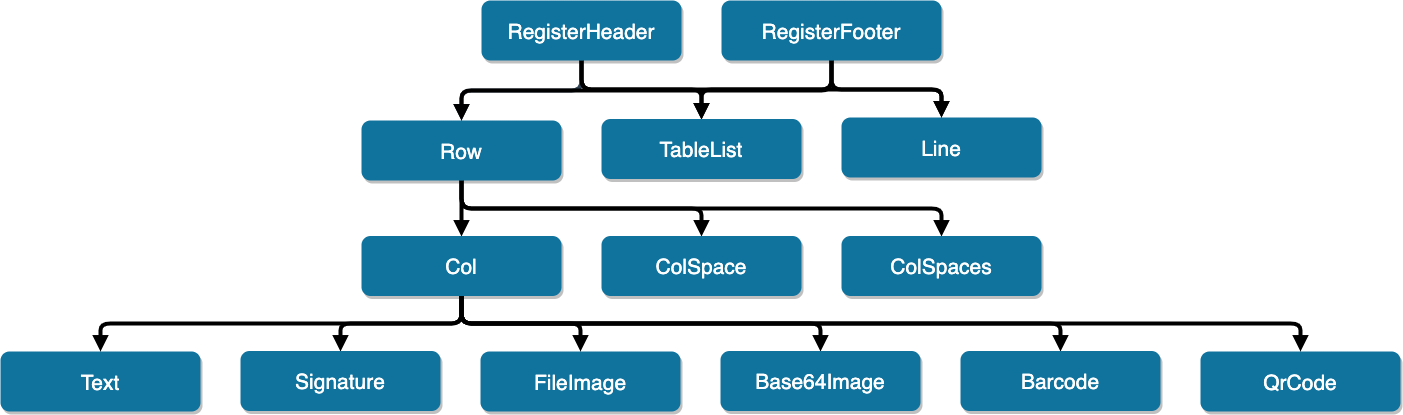
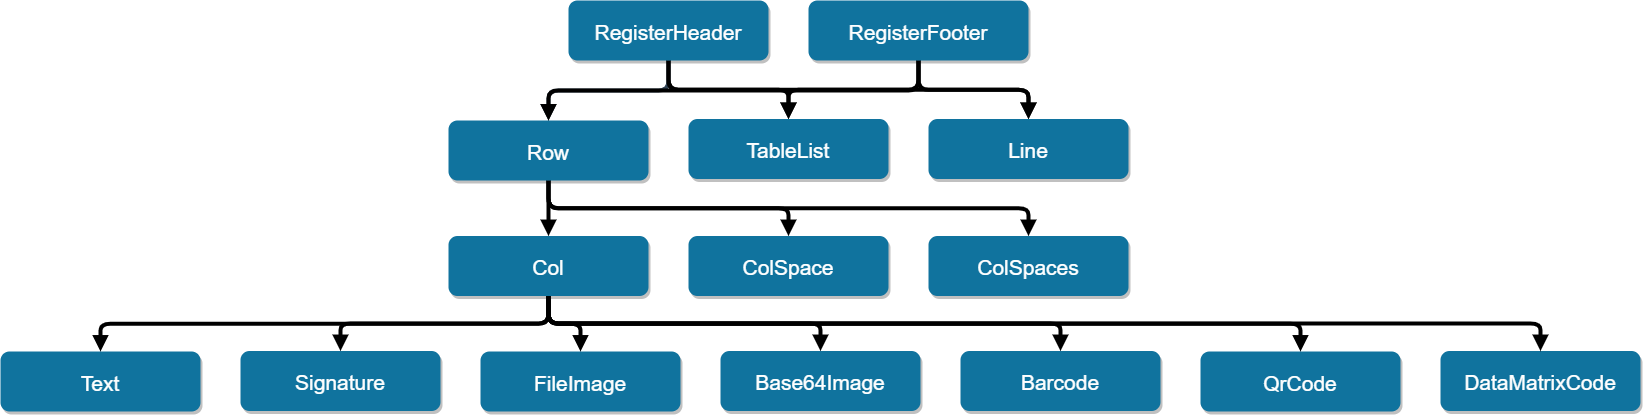
Update docs

diff --git a/pkg/pdf/example_test.go b/pkg/pdf/example_test.go
@@ -48,8 +48,18 @@ func ExamplePdfMaroto_Row() {
 	m := pdf.NewMaroto(consts.Portrait, consts.A4)
 	rowHeight := 5.0
 
+	// Warning: There is no way to use a row inside a row or a row inside a col.
 	m.Row(rowHeight, func() {
-		// ... Add some columns
+		m.Col(12, func() {
+			// Add a component
+		})
+	})
+
+	// Warning: There is no way to use a row inside a row or a row inside a col.
+	m.Row(rowHeight, func() {
+		m.Col(12, func() {
+			// Add another component
+		})
 	})
 
 	// Do more things and save...
@@ -62,6 +72,7 @@ func ExamplePdfMaroto_Col() {
 	rowHeight := 5.0
 
 	// Warning: The sum of all column gridSize cannot extrapolate 12
+	// Warning: There is no way to use a row inside a row or a row inside a col.
 	m.Row(rowHeight, func() {
 		m.Col(12, func() {
 			// Add Image, Text, Signature, QrCode or Barcode...
@@ -69,6 +80,7 @@ func ExamplePdfMaroto_Col() {
 	})
 
 	// Warning: The sum of all column gridSize cannot extrapolate 12
+	// Warning: There is no way to use a row inside a row or a row inside a col.
 	m.Row(rowHeight, func() {
 		m.Col(6, func() {
 			// Add Image, Text, Signature, QrCode or Barcode...
@@ -205,6 +217,13 @@ func ExamplePdfMaroto_TableList() {
 		},
 		HeaderContentSpace: 10.0,
 		Line:               false,
+	})
+
+	// TableList have to be used at same level as row
+	m.Row(10, func() {
+		m.Col(12, func() {
+			// Add a component
+		})
 	})
 
 	// Do more things and save...

diff --git a/pkg/pdf/pdf.go b/pkg/pdf/pdf.go
@@ -253,7 +253,9 @@ func (s *PdfMaroto) Signature(label string, prop ...props.Font) {
 	s.SignHelper.AddSpaceFor(label, cell, signProp.ToTextProp(consts.Center, 0.0, false, 0))
 }
 
-// TableList create a table with multiple rows and columns.
+// TableList create a table with multiple rows and columns,
+// so is not possible use this component inside a row or
+// inside a column.
 // Headers define the amount of columns from each row.
 // Headers have bold style, and localized at the top of table.
 // Contents are array of arrays. Each array is one line.
@@ -316,6 +318,7 @@ func (s *PdfMaroto) Line(spaceHeight float64) {
 }
 
 // Row define a row and enable add columns inside the row.
+// Maroto do not support recursive rows or rows inside columns.
 func (s *PdfMaroto) Row(height float64, closure func()) {
 	// Used to calculate the height of the footer
 	if s.calculationMode {
@@ -365,7 +368,8 @@ func (s *PdfMaroto) Row(height float64, closure func()) {
 }
 
 // Col create a column inside a row and enable to add
-// components inside.
+// components inside. Maroto do not support recursive
+// columns or rows inside columns.
 func (s *PdfMaroto) Col(width uint, closure func()) {
 	if width == 0 {
 		width = 12

diff --git a/README.md b/README.md
@@ -24,6 +24,7 @@ go get -u github.com/johnfercher/maroto
 
 ## Features
 ![result](internal/assets/images/diagram.png)
+<!--%3CmxGraphModel%3E%3Croot%3E%3CmxCell%20id%3D%220%22%2F%3E%3CmxCell%20id%3D%221%22%20parent%3D%220%22%2F%3E%3CmxCell%20id%3D%222%22%20style%3D%22edgeStyle%3DorthogonalEdgeStyle%3BorthogonalLoop%3D1%3BjettySize%3Dauto%3Bhtml%3D1%3BexitX%3D0.5%3BexitY%3D1%3BexitDx%3D0%3BexitDy%3D0%3BentryX%3D0.5%3BentryY%3D0%3BentryDx%3D0%3BentryDy%3D0%3BfontSize%3D21%3Brounded%3D1%3BfillColor%3D%23647687%3BstrokeColor%3D%23314354%3BstrokeWidth%3D4%3BendArrow%3Dblock%3BendFill%3D1%3BfontStyle%3D0%22%20edge%3D%221%22%20source%3D%225%22%20target%3D%2213%22%20parent%3D%221%22%3E%3CmxGeometry%20relative%3D%221%22%20as%3D%22geometry%22%2F%3E%3C%2FmxCell%3E%3CmxCell%20id%3D%223%22%20style%3D%22edgeStyle%3DorthogonalEdgeStyle%3Brounded%3D1%3BorthogonalLoop%3D1%3BjettySize%3Dauto%3Bhtml%3D1%3BexitX%3D0.5%3BexitY%3D1%3BexitDx%3D0%3BexitDy%3D0%3BentryX%3D0.5%3BentryY%3D0%3BentryDx%3D0%3BentryDy%3D0%3BendArrow%3Dblock%3BendFill%3D1%3BstrokeWidth%3D4%3BfontSize%3D21%3BfontStyle%3D0%22%20edge%3D%221%22%20source%3D%225%22%20target%3D%2214%22%20parent%3D%221%22%3E%3CmxGeometry%20relative%3D%221%22%20as%3D%22geometry%22%2F%3E%3C%2FmxCell%3E%3CmxCell%20id%3D%224%22%20style%3D%22edgeStyle%3DorthogonalEdgeStyle%3Brounded%3D1%3BorthogonalLoop%3D1%3BjettySize%3Dauto%3Bhtml%3D1%3BexitX%3D0.5%3BexitY%3D1%3BexitDx%3D0%3BexitDy%3D0%3BentryX%3D0.5%3BentryY%3D0%3BentryDx%3D0%3BentryDy%3D0%3BendArrow%3Dblock%3BendFill%3D1%3BstrokeWidth%3D4%3BfontSize%3D21%3BfontStyle%3D0%22%20edge%3D%221%22%20source%3D%225%22%20target%3D%2215%22%20parent%3D%221%22%3E%3CmxGeometry%20relative%3D%221%22%20as%3D%22geometry%22%2F%3E%3C%2FmxCell%3E%3CmxCell%20id%3D%225%22%20value%3D%22RegisterHeader%22%20style%3D%22rounded%3D1%3BfillColor%3D%2310739E%3BstrokeColor%3Dnone%3Bshadow%3D1%3BgradientColor%3Dnone%3BfontStyle%3D0%3BfontColor%3D%23FFFFFF%3BfontSize%3D21%3B%22%20vertex%3D%221%22%20parent%3D%221%22%3E%3CmxGeometry%20x%3D%221261%22%20y%3D%22380%22%20width%3D%22200%22%20height%3D%2260%22%20as%3D%22geometry%22%2F%3E%3C%2FmxCell%3E%3CmxCell%20id%3D%226%22%20style%3D%22edgeStyle%3DorthogonalEdgeStyle%3Brounded%3D1%3BorthogonalLoop%3D1%3BjettySize%3Dauto%3Bhtml%3D1%3BexitX%3D0.5%3BexitY%3D1%3BexitDx%3D0%3BexitDy%3D0%3BentryX%3D0.5%3BentryY%3D0%3BentryDx%3D0%3BentryDy%3D0%3BendArrow%3Dblock%3BendFill%3D1%3BstrokeWidth%3D4%3BfontSize%3D21%3BfontStyle%3D0%22%20edge%3D%221%22%20source%3D%229%22%20target%3D%2213%22%20parent%3D%221%22%3E%3CmxGeometry%20relative%3D%221%22%20as%3D%22geometry%22%2F%3E%3C%2FmxCell%3E%3CmxCell%20id%3D%227%22%20style%3D%22edgeStyle%3DorthogonalEdgeStyle%3Brounded%3D1%3BorthogonalLoop%3D1%3BjettySize%3Dauto%3Bhtml%3D1%3BexitX%3D0.5%3BexitY%3D1%3BexitDx%3D0%3BexitDy%3D0%3BentryX%3D0.5%3BentryY%3D0%3BentryDx%3D0%3BentryDy%3D0%3BendArrow%3Dblock%3BendFill%3D1%3BstrokeWidth%3D4%3BfontSize%3D21%3BfontStyle%3D0%22%20edge%3D%221%22%20source%3D%229%22%20target%3D%2215%22%20parent%3D%221%22%3E%3CmxGeometry%20relative%3D%221%22%20as%3D%22geometry%22%2F%3E%3C%2FmxCell%3E%3CmxCell%20id%3D%228%22%20style%3D%22edgeStyle%3DorthogonalEdgeStyle%3Brounded%3D1%3BorthogonalLoop%3D1%3BjettySize%3Dauto%3Bhtml%3D1%3BexitX%3D0.5%3BexitY%3D1%3BexitDx%3D0%3BexitDy%3D0%3BentryX%3D0.5%3BentryY%3D0%3BentryDx%3D0%3BentryDy%3D0%3BendArrow%3Dblock%3BendFill%3D1%3BstrokeWidth%3D4%3BfontSize%3D21%3Bshadow%3D0%3BfontStyle%3D0%22%20edge%3D%221%22%20source%3D%229%22%20target%3D%2214%22%20parent%3D%221%22%3E%3CmxGeometry%20relative%3D%221%22%20as%3D%22geometry%22%2F%3E%3C%2FmxCell%3E%3CmxCell%20id%3D%229%22%20value%3D%22RegisterFooter%22%20style%3D%22rounded%3D1%3BfillColor%3D%2310739E%3BstrokeColor%3Dnone%3Bshadow%3D1%3BgradientColor%3Dnone%3BfontStyle%3D0%3BfontColor%3D%23FFFFFF%3BfontSize%3D21%3B%22%20vertex%3D%221%22%20parent%3D%221%22%3E%3CmxGeometry%20x%3D%221501%22%20y%3D%22380%22%20width%3D%22220%22%20height%3D%2260%22%20as%3D%22geometry%22%2F%3E%3C%2FmxCell%3E%3CmxCell%20id%3D%2210%22%20style%3D%22edgeStyle%3DorthogonalEdgeStyle%3Brounded%3D1%3BorthogonalLoop%3D1%3BjettySize%3Dauto%3Bhtml%3D1%3BexitX%3D0.5%3BexitY%3D1%3BexitDx%3D0%3BexitDy%3D0%3BentryX%3D0.5%3BentryY%3D0%3BentryDx%3D0%3BentryDy%3D0%3Bshadow%3D0%3BendArrow%3Dblock%3BendFill%3D1%3BstrokeWidth%3D4%3BfontSize%3D21%3BfontStyle%3D0%22%20edge%3D%221%22%20source%3D%2213%22%20target%3D%2222%22%20parent%3D%221%22%3E%3CmxGeometry%20relative%3D%221%22%20as%3D%22geometry%22%2F%3E%3C%2FmxCell%3E%3CmxCell%20id%3D%2211%22%20style%3D%22edgeStyle%3DorthogonalEdgeStyle%3Brounded%3D1%3BorthogonalLoop%3D1%3BjettySize%3Dauto%3Bhtml%3D1%3BexitX%3D0.5%3BexitY%3D1%3BexitDx%3D0%3BexitDy%3D0%3BentryX%3D0.5%3BentryY%3D0%3BentryDx%3D0%3BentryDy%3D0%3Bshadow%3D0%3BendArrow%3Dblock%3BendFill%3D1%3BstrokeWidth%3D4%3BfontSize%3D21%3BfontStyle%3D0%22%20edge%3D%221%22%20source%3D%2213%22%20target%3D%2223%22%20parent%3D%221%22%3E%3CmxGeometry%20relative%3D%221%22%20as%3D%22geometry%22%2F%3E%3C%2FmxCell%3E%3CmxCell%20id%3D%2212%22%20style%3D%22edgeStyle%3DorthogonalEdgeStyle%3Brounded%3D1%3BorthogonalLoop%3D1%3BjettySize%3Dauto%3Bhtml%3D1%3BexitX%3D0.5%3BexitY%3D1%3BexitDx%3D0%3BexitDy%3D0%3BentryX%3D0.5%3BentryY%3D0%3BentryDx%3D0%3BentryDy%3D0%3Bshadow%3D0%3BendArrow%3Dblock%3BendFill%3D1%3BstrokeWidth%3D4%3BfontSize%3D21%3BfontStyle%3D0%22%20edge%3D%221%22%20source%3D%2213%22%20target%3D%2224%22%20parent%3D%221%22%3E%3CmxGeometry%20relative%3D%221%22%20as%3D%22geometry%22%2F%3E%3C%2FmxCell%3E%3CmxCell%20id%3D%2213%22%20value%3D%22Row%22%20style%3D%22rounded%3D1%3BfillColor%3D%2310739E%3BstrokeColor%3Dnone%3Bshadow%3D1%3BgradientColor%3Dnone%3BfontStyle%3D0%3BfontColor%3D%23FFFFFF%3BfontSize%3D21%3B%22%20vertex%3D%221%22%20parent%3D%221%22%3E%3CmxGeometry%20x%3D%221141%22%20y%3D%22500%22%20width%3D%22200%22%20height%3D%2260%22%20as%3D%22geometry%22%2F%3E%3C%2FmxCell%3E%3CmxCell%20id%3D%2214%22%20value%3D%22TableList%22%20style%3D%22rounded%3D1%3BfillColor%3D%2310739E%3BstrokeColor%3Dnone%3Bshadow%3D1%3BgradientColor%3Dnone%3BfontStyle%3D0%3BfontColor%3D%23FFFFFF%3BfontSize%3D21%3B%22%20vertex%3D%221%22%20parent%3D%221%22%3E%3CmxGeometry%20x%3D%221381%22%20y%3D%22498.5%22%20width%3D%22200%22%20height%3D%2260%22%20as%3D%22geometry%22%2F%3E%3C%2FmxCell%3E%3CmxCell%20id%3D%2215%22%20value%3D%22Line%22%20style%3D%22rounded%3D1%3BfillColor%3D%2310739E%3BstrokeColor%3Dnone%3Bshadow%3D1%3BgradientColor%3Dnone%3BfontStyle%3D0%3BfontColor%3D%23FFFFFF%3BfontSize%3D21%3B%22%20vertex%3D%221%22%20parent%3D%221%22%3E%3CmxGeometry%20x%3D%221621%22%20y%3D%22498.5%22%20width%3D%22200%22%20height%3D%2260%22%20as%3D%22geometry%22%2F%3E%3C%2FmxCell%3E%3CmxCell%20id%3D%2216%22%20style%3D%22edgeStyle%3DorthogonalEdgeStyle%3Brounded%3D1%3BorthogonalLoop%3D1%3BjettySize%3Dauto%3Bhtml%3D1%3BexitX%3D0.5%3BexitY%3D1%3BexitDx%3D0%3BexitDy%3D0%3BentryX%3D0.5%3BentryY%3D0%3BentryDx%3D0%3BentryDy%3D0%3Bshadow%3D0%3BendArrow%3Dblock%3BendFill%3D1%3BstrokeWidth%3D4%3BfontSize%3D21%3B%22%20edge%3D%221%22%20source%3D%2222%22%20target%3D%2225%22%20parent%3D%221%22%3E%3CmxGeometry%20relative%3D%221%22%20as%3D%22geometry%22%2F%3E%3C%2FmxCell%3E%3CmxCell%20id%3D%2217%22%20style%3D%22edgeStyle%3DorthogonalEdgeStyle%3Brounded%3D1%3BorthogonalLoop%3D1%3BjettySize%3Dauto%3Bhtml%3D1%3BexitX%3D0.5%3BexitY%3D1%3BexitDx%3D0%3BexitDy%3D0%3BentryX%3D0.5%3BentryY%3D0%3BentryDx%3D0%3BentryDy%3D0%3Bshadow%3D0%3BendArrow%3Dblock%3BendFill%3D1%3BstrokeWidth%3D4%3BfontSize%3D21%3B%22%20edge%3D%221%22%20source%3D%2222%22%20target%3D%2226%22%20parent%3D%221%22%3E%3CmxGeometry%20relative%3D%221%22%20as%3D%22geometry%22%2F%3E%3C%2FmxCell%3E%3CmxCell%20id%3D%2218%22%20style%3D%22edgeStyle%3DorthogonalEdgeStyle%3Brounded%3D1%3BorthogonalLoop%3D1%3BjettySize%3Dauto%3Bhtml%3D1%3BexitX%3D0.5%3BexitY%3D1%3BexitDx%3D0%3BexitDy%3D0%3BentryX%3D0.5%3BentryY%3D0%3BentryDx%3D0%3BentryDy%3D0%3Bshadow%3D0%3BendArrow%3Dblock%3BendFill%3D1%3BstrokeWidth%3D4%3BfontSize%3D21%3B%22%20edge%3D%221%22%20source%3D%2222%22%20target%3D%2227%22%20parent%3D%221%22%3E%3CmxGeometry%20relative%3D%221%22%20as%3D%22geometry%22%2F%3E%3C%2FmxCell%3E%3CmxCell%20id%3D%2219%22%20style%3D%22edgeStyle%3DorthogonalEdgeStyle%3Brounded%3D1%3BorthogonalLoop%3D1%3BjettySize%3Dauto%3Bhtml%3D1%3BexitX%3D0.5%3BexitY%3D1%3BexitDx%3D0%3BexitDy%3D0%3BentryX%3D0.5%3BentryY%3D0%3BentryDx%3D0%3BentryDy%3D0%3Bshadow%3D0%3BendArrow%3Dblock%3BendFill%3D1%3BstrokeWidth%3D4%3BfontSize%3D21%3B%22%20edge%3D%221%22%20source%3D%2222%22%20target%3D%2228%22%20parent%3D%221%22%3E%3CmxGeometry%20relative%3D%221%22%20as%3D%22geometry%22%2F%3E%3C%2FmxCell%3E%3CmxCell%20id%3D%2220%22%20style%3D%22edgeStyle%3DorthogonalEdgeStyle%3Brounded%3D1%3BorthogonalLoop%3D1%3BjettySize%3Dauto%3Bhtml%3D1%3BexitX%3D0.5%3BexitY%3D1%3BexitDx%3D0%3BexitDy%3D0%3BentryX%3D0.5%3BentryY%3D0%3BentryDx%3D0%3BentryDy%3D0%3Bshadow%3D0%3BendArrow%3Dblock%3BendFill%3D1%3BstrokeWidth%3D4%3BfontSize%3D21%3B%22%20edge%3D%221%22%20source%3D%2222%22%20target%3D%2229%22%20parent%3D%221%22%3E%3CmxGeometry%20relative%3D%221%22%20as%3D%22geometry%22%2F%3E%3C%2FmxCell%3E%3CmxCell%20id%3D%2221%22%20style%3D%22edgeStyle%3DorthogonalEdgeStyle%3Brounded%3D1%3BorthogonalLoop%3D1%3BjettySize%3Dauto%3Bhtml%3D1%3BexitX%3D0.5%3BexitY%3D1%3BexitDx%3D0%3BexitDy%3D0%3BentryX%3D0.5%3BentryY%3D0%3BentryDx%3D0%3BentryDy%3D0%3Bshadow%3D0%3BendArrow%3Dblock%3BendFill%3D1%3BstrokeWidth%3D4%3BfontSize%3D21%3B%22%20edge%3D%221%22%20source%3D%2222%22%20target%3D%2230%22%20parent%3D%221%22%3E%3CmxGeometry%20relative%3D%221%22%20as%3D%22geometry%22%2F%3E%3C%2FmxCell%3E%3CmxCell%20id%3D%2222%22%20value%3D%22Col%22%20style%3D%22rounded%3D1%3BfillColor%3D%2310739E%3BstrokeColor%3Dnone%3Bshadow%3D1%3BgradientColor%3Dnone%3BfontStyle%3D0%3BfontColor%3D%23FFFFFF%3BfontSize%3D21%3B%22%20vertex%3D%221%22%20parent%3D%221%22%3E%3CmxGeometry%20x%3D%221141%22%20y%3D%22615.5%22%20width%3D%22200%22%20height%3D%2260%22%20as%3D%22geometry%22%2F%3E%3C%2FmxCell%3E%3CmxCell%20id%3D%2223%22%20value%3D%22ColSpace%22%20style%3D%22rounded%3D1%3BfillColor%3D%2310739E%3BstrokeColor%3Dnone%3Bshadow%3D1%3BgradientColor%3Dnone%3BfontStyle%3D0%3BfontColor%3D%23FFFFFF%3BfontSize%3D21%3B%22%20vertex%3D%221%22%20parent%3D%221%22%3E%3CmxGeometry%20x%3D%221381%22%20y%3D%22615.5%22%20width%3D%22200%22%20height%3D%2260%22%20as%3D%22geometry%22%2F%3E%3C%2FmxCell%3E%3CmxCell%20id%3D%2224%22%20value%3D%22ColSpaces%22%20style%3D%22rounded%3D1%3BfillColor%3D%2310739E%3BstrokeColor%3Dnone%3Bshadow%3D1%3BgradientColor%3Dnone%3BfontStyle%3D0%3BfontColor%3D%23FFFFFF%3BfontSize%3D21%3B%22%20vertex%3D%221%22%20parent%3D%221%22%3E%3CmxGeometry%20x%3D%221621%22%20y%3D%22615.5%22%20width%3D%22200%22%20height%3D%2260%22%20as%3D%22geometry%22%2F%3E%3C%2FmxCell%3E%3CmxCell%20id%3D%2225%22%20value%3D%22Text%22%20style%3D%22rounded%3D1%3BfillColor%3D%2310739E%3BstrokeColor%3Dnone%3Bshadow%3D1%3BgradientColor%3Dnone%3BfontStyle%3D0%3BfontColor%3D%23FFFFFF%3BfontSize%3D21%3B%22%20vertex%3D%221%22%20parent%3D%221%22%3E%3CmxGeometry%20x%3D%22693%22%20y%3D%22731%22%20width%3D%22200%22%20height%3D%2260%22%20as%3D%22geometry%22%2F%3E%3C%2FmxCell%3E%3CmxCell%20id%3D%2226%22%20value%3D%22Signature%22%20style%3D%22rounded%3D1%3BfillColor%3D%2310739E%3BstrokeColor%3Dnone%3Bshadow%3D1%3BgradientColor%3Dnone%3BfontStyle%3D0%3BfontColor%3D%23FFFFFF%3BfontSize%3D21%3B%22%20vertex%3D%221%22%20parent%3D%221%22%3E%3CmxGeometry%20x%3D%22933%22%20y%3D%22730.5%22%20width%3D%22200%22%20height%3D%2260%22%20as%3D%22geometry%22%2F%3E%3C%2FmxCell%3E%3CmxCell%20id%3D%2227%22%20value%3D%22FileImage%22%20style%3D%22rounded%3D1%3BfillColor%3D%2310739E%3BstrokeColor%3Dnone%3Bshadow%3D1%3BgradientColor%3Dnone%3BfontStyle%3D0%3BfontColor%3D%23FFFFFF%3BfontSize%3D21%3B%22%20vertex%3D%221%22%20parent%3D%221%22%3E%3CmxGeometry%20x%3D%221173%22%20y%3D%22731%22%20width%3D%22200%22%20height%3D%2260%22%20as%3D%22geometry%22%2F%3E%3C%2FmxCell%3E%3CmxCell%20id%3D%2228%22%20value%3D%22Base64Image%22%20style%3D%22rounded%3D1%3BfillColor%3D%2310739E%3BstrokeColor%3Dnone%3Bshadow%3D1%3BgradientColor%3Dnone%3BfontStyle%3D0%3BfontColor%3D%23FFFFFF%3BfontSize%3D21%3B%22%20vertex%3D%221%22%20parent%3D%221%22%3E%3CmxGeometry%20x%3D%221413%22%20y%3D%22730.5%22%20width%3D%22200%22%20height%3D%2260%22%20as%3D%22geometry%22%2F%3E%3C%2FmxCell%3E%3CmxCell%20id%3D%2229%22%20value%3D%22Barcode%22%20style%3D%22rounded%3D1%3BfillColor%3D%2310739E%3BstrokeColor%3Dnone%3Bshadow%3D1%3BgradientColor%3Dnone%3BfontStyle%3D0%3BfontColor%3D%23FFFFFF%3BfontSize%3D21%3B%22%20vertex%3D%221%22%20parent%3D%221%22%3E%3CmxGeometry%20x%3D%221653%22%20y%3D%22730.5%22%20width%3D%22200%22%20height%3D%2260%22%20as%3D%22geometry%22%2F%3E%3C%2FmxCell%3E%3CmxCell%20id%3D%2230%22%20value%3D%22QrCode%22%20style%3D%22rounded%3D1%3BfillColor%3D%2310739E%3BstrokeColor%3Dnone%3Bshadow%3D1%3BgradientColor%3Dnone%3BfontStyle%3D0%3BfontColor%3D%23FFFFFF%3BfontSize%3D21%3B%22%20vertex%3D%221%22%20parent%3D%221%22%3E%3CmxGeometry%20x%3D%221893%22%20y%3D%22731%22%20width%3D%22200%22%20height%3D%2260%22%20as%3D%22geometry%22%2F%3E%3C%2FmxCell%3E%3CmxCell%20id%3D%2231%22%20value%3D%22DataMatrixCode%22%20style%3D%22rounded%3D1%3BfillColor%3D%2310739E%3BstrokeColor%3Dnone%3Bshadow%3D1%3BgradientColor%3Dnone%3BfontStyle%3D0%3BfontColor%3D%23FFFFFF%3BfontSize%3D21%3B%22%20vertex%3D%221%22%20parent%3D%221%22%3E%3CmxGeometry%20x%3D%222133%22%20y%3D%22730.5%22%20width%3D%22200%22%20height%3D%2260%22%20as%3D%22geometry%22%2F%3E%3C%2FmxCell%3E%3CmxCell%20id%3D%2232%22%20style%3D%22edgeStyle%3DorthogonalEdgeStyle%3Brounded%3D1%3BorthogonalLoop%3D1%3BjettySize%3Dauto%3Bhtml%3D1%3BexitX%3D0.5%3BexitY%3D1%3BexitDx%3D0%3BexitDy%3D0%3Bshadow%3D0%3BendArrow%3Dblock%3BendFill%3D1%3BstrokeWidth%3D4%3BfontSize%3D21%3BentryX%3D0.5%3BentryY%3D0%3BentryDx%3D0%3BentryDy%3D0%3B%22%20edge%3D%221%22%20target%3D%2231%22%20parent%3D%221%22%3E%3CmxGeometry%20relative%3D%221%22%20as%3D%22geometry%22%3E%3CmxPoint%20x%3D%221241%22%20y%3D%22678.5%22%20as%3D%22sourcePoint%22%2F%3E%3CmxPoint%20x%3D%222330%22%20y%3D%22700%22%20as%3D%22targetPoint%22%2F%3E%3CArray%20as%3D%22points%22%3E%3CmxPoint%20x%3D%221241%22%20y%3D%22703%22%2F%3E%3CmxPoint%20x%3D%222233%22%20y%3D%22703%22%2F%3E%3C%2FArray%3E%3C%2FmxGeometry%3E%3C%2FmxCell%3E%3C%2Froot%3E%3C%2FmxGraphModel%3E-->
 
 #### Constructors
 * [New](https://pkg.go.dev/github.com/johnfercher/maroto/pkg/pdf#NewMaroto)
@@ -33,7 +34,6 @@ go get -u github.com/johnfercher/maroto
 * [Row](https://pkg.go.dev/github.com/johnfercher/maroto/pkg/pdf?tab=doc#PdfMaroto.Row)
 * [Col](https://pkg.go.dev/github.com/johnfercher/maroto/pkg/pdf?tab=doc#PdfMaroto.Col)
 * [ColSpace](https://pkg.go.dev/github.com/johnfercher/maroto/pkg/pdf?tab=doc#PdfMaroto.ColSpace)
-* [AddPage](https://pkg.go.dev/github.com/johnfercher/maroto/pkg/pdf?tab=doc#PdfMaroto.AddPage)
 
 #### Components To Use Inside a Col
 * [Text w/ automatic new lines](https://pkg.go.dev/github.com/johnfercher/maroto/pkg/pdf?tab=doc#PdfMaroto.Text)
@@ -41,7 +41,7 @@ go get -u github.com/johnfercher/maroto
 * Image ([From file](https://pkg.go.dev/github.com/johnfercher/maroto/pkg/pdf?tab=doc#PdfMaroto.FileImage) or [Base64](https://pkg.go.dev/github.com/johnfercher/maroto/pkg/pdf?tab=doc#PdfMaroto.Base64Image))
 * [QrCode](https://pkg.go.dev/github.com/johnfercher/maroto/pkg/pdf?tab=doc#PdfMaroto.QrCode)
 * [Barcode](https://pkg.go.dev/github.com/johnfercher/maroto/pkg/pdf?tab=doc#PdfMaroto.Barcode) 
-* [DataMatrixCode](https://pkg.go.dev/github.com/johnfercher/maroto/pkg/pdf?tab=doc#P#PdfMaroto.DataMatrixCode)  
+* [DataMatrixCode](https://pkg.go.dev/github.com/johnfercher/maroto/pkg/pdf?tab=doc#PdfMaroto.DataMatrixCode)  
     
 #### Components To Use Outside a Row
 * [TableList](https://pkg.go.dev/github.com/johnfercher/maroto/pkg/pdf?tab=doc#PdfMaroto.TableList)
@@ -52,22 +52,28 @@ go get -u github.com/johnfercher/maroto
 * [RegisterFooter](https://pkg.go.dev/github.com/johnfercher/maroto/pkg/pdf?tab=doc#PdfMaroto.RegisterFooter)
 
 #### Saving PDF
-* [Output](https://pkg.go.dev/github.com/johnfercher/maroto/pkg/pdf#PdfMaroto.Output)
-* [OutputFileAndClose](https://pkg.go.dev/github.com/johnfercher/maroto/pkg/pdf#PdfMaroto.OutputFileAndClose)
+* [Output](https://pkg.go.dev/github.com/johnfercher/maroto/pkg/pdf#PdfMaroto.Output): Generate PDF and return a Base64 string
+* [OutputFileAndClose](https://pkg.go.dev/github.com/johnfercher/maroto/pkg/pdf#PdfMaroto.OutputFileAndClose): Generate PDF and save in disk
+* [SetProtection](https://pkg.go.dev/github.com/johnfercher/maroto/pkg/pdf#PdfMaroto.SetProtection): Define a password to open the PDF
+* [SetCompression](https://pkg.go.dev/github.com/johnfercher/maroto/pkg/pdf#PdfMaroto.SetCompression) Set/ unset compression for a page. Default value is on
 
-#### Customizations   
-* [Properties](https://pkg.go.dev/github.com/johnfercher/maroto/pkg/props?tab=doc): most of the components has properties which you can use to customize appearance and behavior.
-* [SetBorder](https://pkg.go.dev/github.com/johnfercher/maroto/pkg/pdf?tab=doc#PdfMaroto.SetBorder): Used to draw rectangles in every row and column
-* [SetBackgroundColor](https://pkg.go.dev/github.com/johnfercher/maroto/pkg/pdf?tab=doc#PdfMaroto.SetBackgroundColor): Used to change the background color of one cell.
+#### Fonts   
+* [AddUTF8Font](https://pkg.go.dev/github.com/johnfercher/maroto/pkg/pdf#PdfMaroto.AddUTF8Font): Add a custom utf8 font and allow any character of any language.
+* [SetDefaultFontFamily](https://pkg.go.dev/github.com/johnfercher/maroto/pkg/pdf#PdfMaroto.SetProtection): Define a default font family, useful to use with a custom font.
+* [SetFontLocation](https://pkg.go.dev/github.com/johnfercher/maroto/pkg/pdf#PdfMaroto.SetFontLocation): Define the default path to search the custom font
+* 100% Unicode
+
+#### Page
+* [AddPage](https://pkg.go.dev/github.com/johnfercher/maroto/pkg/pdf?tab=doc#PdfMaroto.AddPage): Skip the current page and start the build a new one
 * [SetPageMargins](https://pkg.go.dev/github.com/johnfercher/maroto/pkg/pdf?tab=doc#PdfMaroto.SetPageMargins): Customize the page margins
 * [SetAliasNbPages](https://pkg.go.dev/github.com/johnfercher/maroto/pkg/pdf#PdfMaroto.SetAliasNbPages): Set placeholder to use in texts for total count of pages
 * [SetFirstPageNb](https://pkg.go.dev/github.com/johnfercher/maroto/pkg/pdf#PdfMaroto.SetFirstPageNb): Set first number for page numbering
-* [AddUTF8Font](https://pkg.go.dev/github.com/johnfercher/maroto/pkg/pdf#PdfMaroto.AddUTF8Font): Add a custom utf8 font
-* [SetProtection](https://pkg.go.dev/github.com/johnfercher/maroto/pkg/pdf#PdfMaroto.SetProtection)
-* [SetCompression](https://pkg.go.dev/github.com/johnfercher/maroto/pkg/pdf#PdfMaroto.SetCompression) Set/ unset compression for a page. Default value is on 
-* [SetDefaultFontFamily](https://pkg.go.dev/github.com/johnfercher/maroto/pkg/pdf#PdfMaroto.SetProtection): Define a default font family, useful to use with a custom font.
 * Automatic New Page: New pages are generated automatically when needed.
-* 100% Unicode
+
+#### Customizations
+* [Properties](https://pkg.go.dev/github.com/johnfercher/maroto/pkg/props?tab=doc): most of the components has properties which you can use to customize appearance and behavior
+* [SetBorder](https://pkg.go.dev/github.com/johnfercher/maroto/pkg/pdf?tab=doc#PdfMaroto.SetBorder): Used to draw rectangles in every row and column
+* [SetBackgroundColor](https://pkg.go.dev/github.com/johnfercher/maroto/pkg/pdf?tab=doc#PdfMaroto.SetBackgroundColor): Used to change the background color of one cell
 
 #### Roadmap
 * Updated in [Issues](https://github.com/johnfercher/maroto/issues)
@@ -79,7 +85,7 @@ with the code to generate the PDFs. There are examples of: [barcode](internal/ex
 [billing](internal/examples/billing), [certificate](internal/examples/certificate), 
 [custom pdf size](internal/examples/customsize), [image inside grid](internal/examples/imagegrid),
 [qrcode inside grid](internal/examples/qrgrid), [sample with almost all features together](internal/examples/sample1), 
-[text inside grid](internal/examples/textgrid), [custom utf8 fonts](internal/examples/utfsample) and a
+[text inside grid](internal/examples/textgrid), [custom utf8 fonts (any language)](internal/examples/utfsample) and a
 [label zpl](internal/examples/zpl).
 
 ![result](internal/assets/images/result.png)
